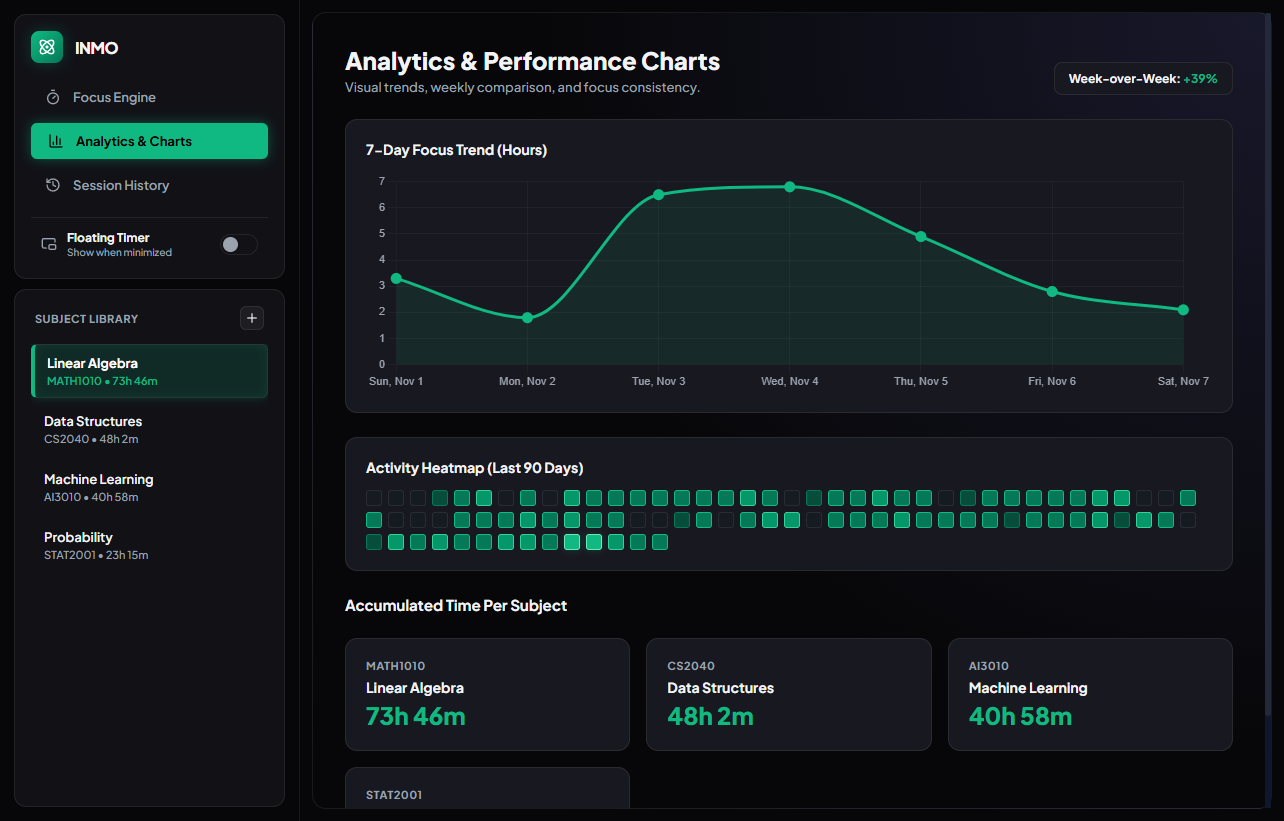
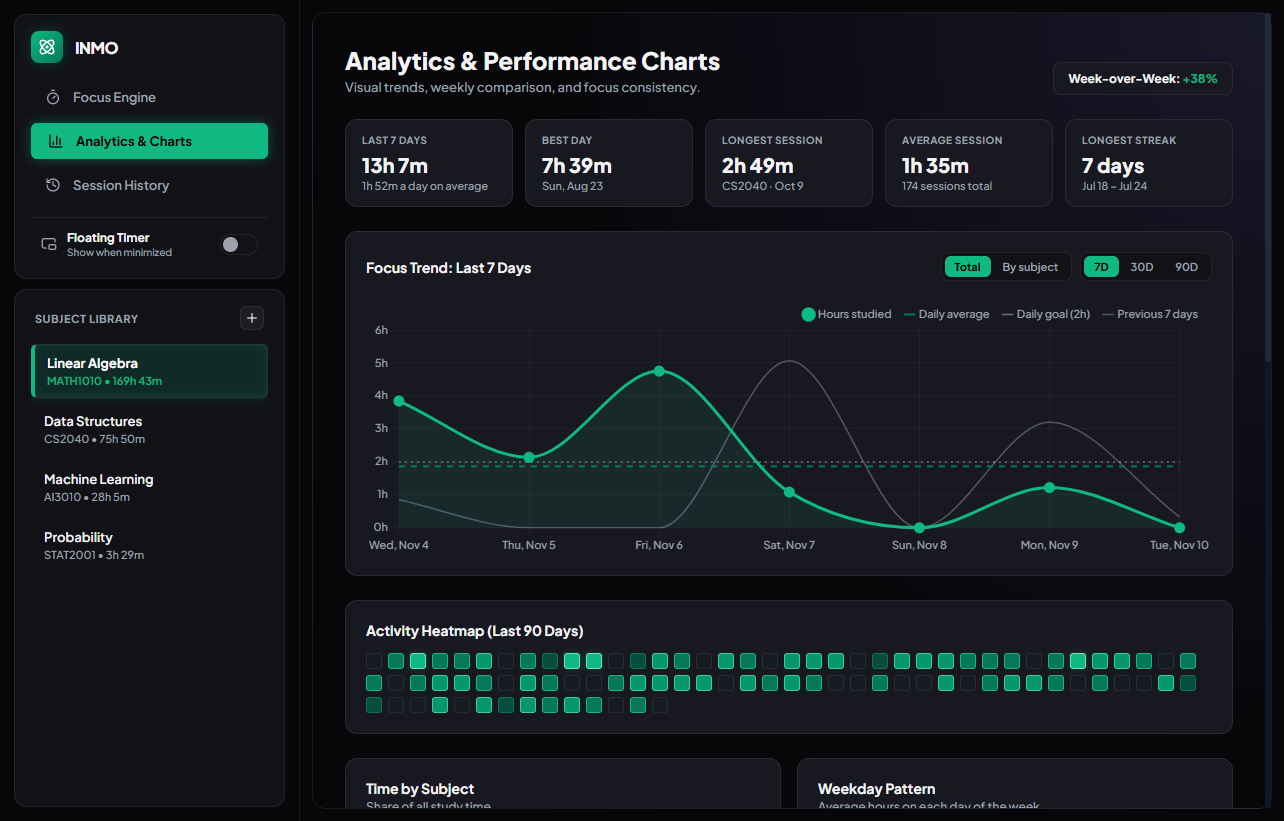
Update README screenshot for the new Analytics tab

diff --git a/README.md b/README.md
@@ -7,7 +7,7 @@ A desktop study tracker for university courses. Time your study sessions per sub
 ![Electron](https://img.shields.io/badge/Electron-2b2e3a?style=flat-square&logo=electron&logoColor=9feaf9)
 ![SQLite](https://img.shields.io/badge/SQLite-003b57?style=flat-square&logo=sqlite&logoColor=white)
 
-![inmo analytics page showing a 7-day focus trend, activity heatmap and time per subject](docs/screenshot.png)
+![inmo analytics page showing summary stats, a 7-day focus trend with average, goal and previous-week lines, and an activity heatmap](docs/screenshot.png)
 
 ## Features
 
